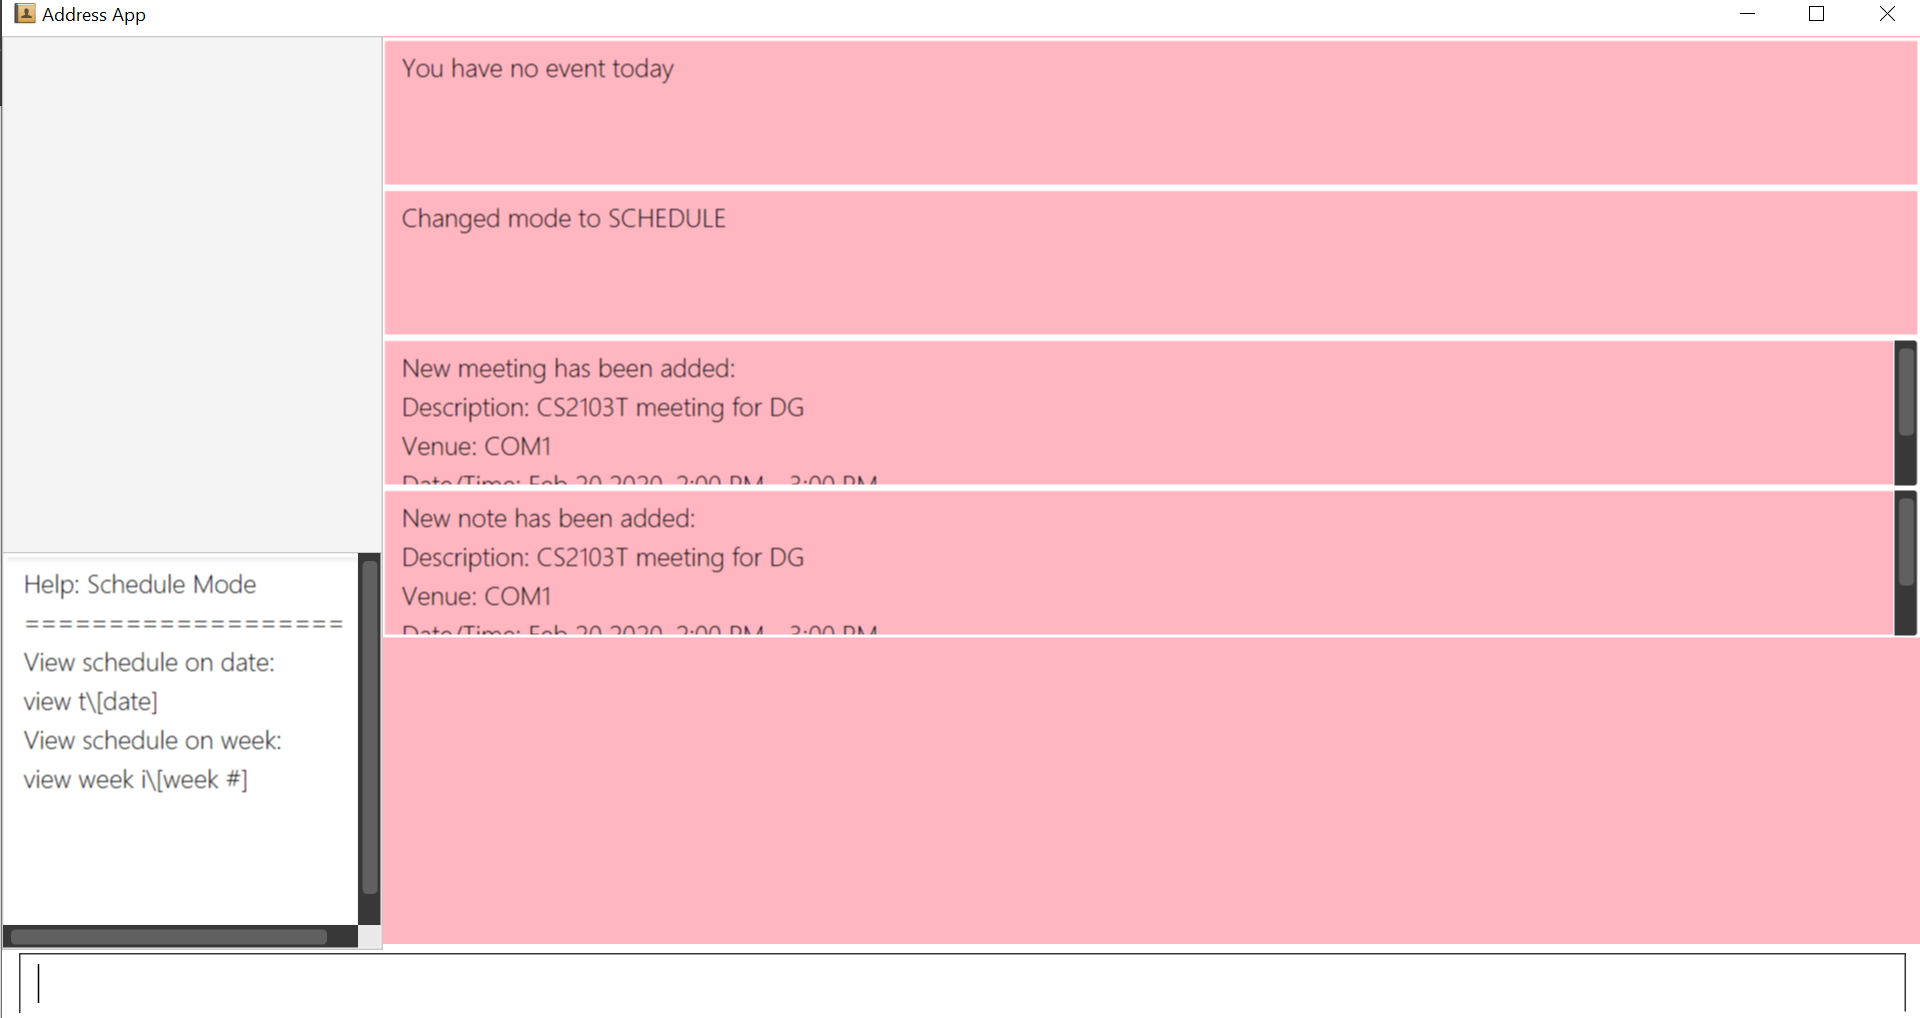
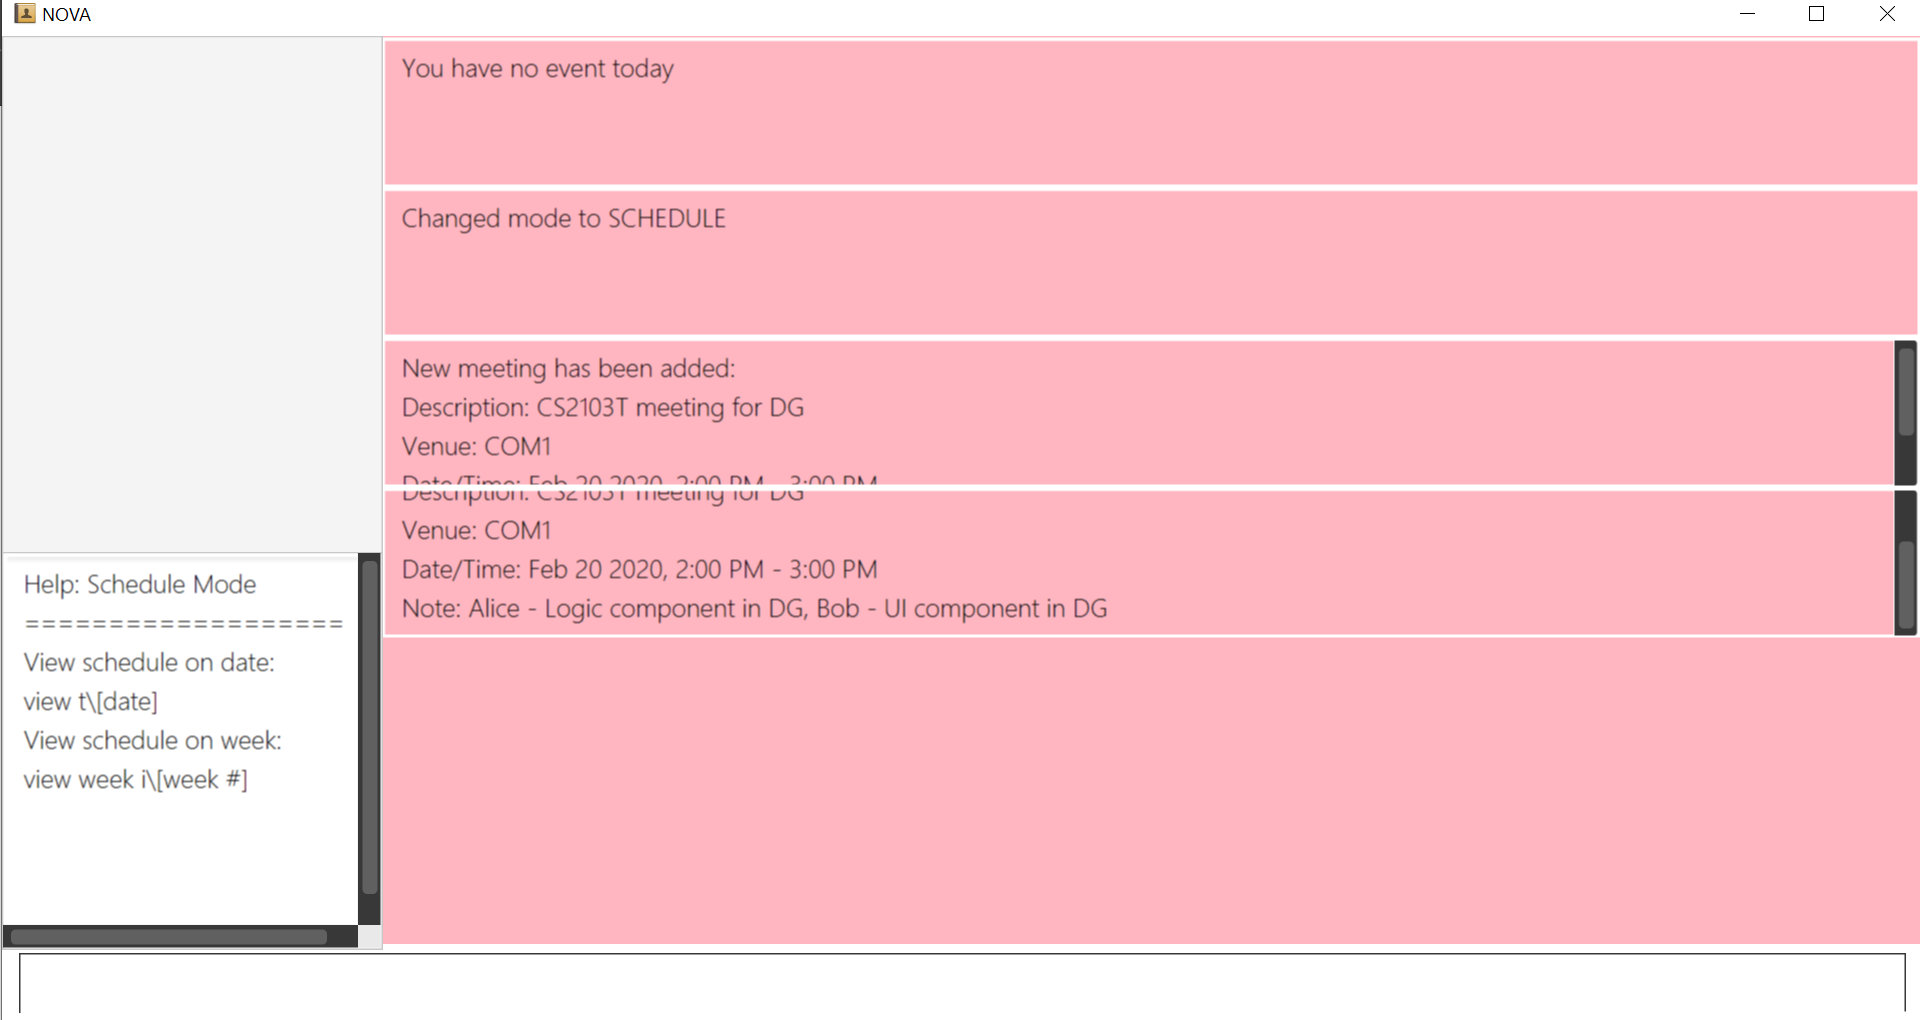
Rebuild pages at ec6de3c78dba63a0d6a7e8003beb362af8b39937

diff --git a/UserGuide.html b/UserGuide.html
@@ -954,7 +954,7 @@ Suppose you wish to add a note that indicates the work allocation to a meeting e
 </div>
 <div class="paragraph">
 <p>NOVA will add a note with the description "Alice - Logic component in DG, Bob - UI component in DG"
-to the second event on 20 Feb 2020.</p>
+to the first event on 20 Feb 2020.</p>
 </div>
 <div class="imageblock" style="text-align: center">
 <div class="content">
@@ -962,7 +962,8 @@ to the second event on 20 Feb 2020.</p>
 </div>
 </div>
 <div class="paragraph text-center">
-<p><em><span class="small">Fig 5.3.6: GUI of NOVA after user typed contact <code>nav ab</code></span></em></p>
+<p><em><span class="small">Fig 5.2: GUI of NOVA after user typed <code>note d\Alice - Logic component in DG,
+                                                 Bob - UI component in DG t\2020-02-20 i\1</code></span></em></p>
 </div>
 <div class="paragraph">
 <p><a href="#Top">[Back to Top]</a></p>
@@ -1803,4 +1804,4 @@ contains the data of your previous NOVA folder.</p>
 <p><a href="#Top">[Back to Top]</a></p>
 </div>
 </div>
-</div></div><div id="footer"><div class="container"><div id="footer-text">Last updated 2020-04-03 03:41:05 UTC</div></div></div></body></html>
+</div></div><div id="footer"><div class="container"><div id="footer-text">Last updated 2020-04-03 05:06:31 UTC</div></div></div></body></html>

diff --git a/tutorials/RemovingFields.html b/tutorials/RemovingFields.html
@@ -175,4 +175,4 @@ While keeping the <code>address</code> field in the json files does not cause th
 <p>You can go through each individual <code>json</code> file and manually remove the <code>address</code> field.</p>
 </div>
 </div>
-</div></div><div id="footer"><div class="container"><div id="footer-text">Last updated 2020-04-03 03:41:06 UTC</div></div></div></body></html>
+</div></div><div id="footer"><div class="container"><div id="footer-text">Last updated 2020-04-03 05:06:31 UTC</div></div></div></body></html>

diff --git a/tutorials/AddRemark.html b/tutorials/AddRemark.html
@@ -616,4 +616,4 @@ In this case, <code>CommandTestUtil#assertCommandSuccess</code> is the best fit 
 <p>This concludes the tutorial for adding a new <code>Command</code> to AddressBook.</p>
 </div>
 </div>
-</div></div><div id="footer"><div class="container"><div id="footer-text">Last updated 2020-04-03 03:41:06 UTC</div></div></div></body></html>
+</div></div><div id="footer"><div class="container"><div id="footer-text">Last updated 2020-04-03 05:06:31 UTC</div></div></div></body></html>

diff --git a/Testing.html b/Testing.html
@@ -90,4 +90,4 @@ e.g. <code>seedu.NOVA.logic.LogicManagerTest</code></p>
 <div class="title">Figure 1. <code>Accessibility</code> permission is granted to <code>IntelliJ IDEA</code></div>
 </div>
 </div>
-</div></div><div id="footer"><div class="container"><div id="footer-text">Last updated 2020-04-03 03:41:05 UTC</div></div></div></body></html>
+</div></div><div id="footer"><div class="container"><div id="footer-text">Last updated 2020-04-03 05:06:31 UTC</div></div></div></body></html>

diff --git a/team/johndoe.html b/team/johndoe.html
@@ -418,4 +418,4 @@ If the <code>currentStatePointer</code> is at index <code>addressBookStateList.s
 <p><em>{Optionally, you may include other projects in your portfolio.}</em></p>
 </div>
 </div>
-</div></div><div id="footer"><div class="container"><div id="footer-text">Last updated 2020-04-03 03:41:06 UTC</div></div></div></body></html>
+</div></div><div id="footer"><div class="container"><div id="footer-text">Last updated 2020-04-03 05:06:31 UTC</div></div></div></body></html>

diff --git a/ContactUs.html b/ContactUs.html
@@ -12,4 +12,4 @@
 <p><strong>Email us</strong> : You can also reach us at <code>e0325944@u.nus.edu</code></p>
 </li>
 </ul>
-</div></div><div id="footer"><div class="container"><div id="footer-text">Last updated 2020-04-03 03:41:05 UTC</div></div></div></body></html>
+</div></div><div id="footer"><div class="container"><div id="footer-text">Last updated 2020-04-03 05:06:31 UTC</div></div></div></body></html>

diff --git a/LearningOutcomes.html b/LearningOutcomes.html
@@ -474,4 +474,4 @@ of storages, but different number of storages (e.g. save to both a text file and
 </div>
 </div>
 </div>
-</div></div><div id="footer"><div class="container"><div id="footer-text">Last updated 2020-04-03 03:41:05 UTC</div></div></div></body></html>
+</div></div><div id="footer"><div class="container"><div id="footer-text">Last updated 2020-04-03 05:06:31 UTC</div></div></div></body></html>

diff --git a/SettingUp.html b/SettingUp.html
@@ -180,4 +180,4 @@ Having both Travis and AppVeyor ensures your App works on both Unix-based platfo
 </div>
 </div>
 </div>
-</div></div><div id="footer"><div class="container"><div id="footer-text">Last updated 2020-04-03 03:41:05 UTC</div></div></div></body></html>
+</div></div><div id="footer"><div class="container"><div id="footer-text">Last updated 2020-04-03 05:06:31 UTC</div></div></div></body></html>

diff --git a/UsingCoveralls.html b/UsingCoveralls.html
@@ -111,4 +111,4 @@ If you have not set up Travis CI, see <a href="UsingTravis.html">UsingTravis.ado
 </ol>
 </div>
 </div>
-</div></div><div id="footer"><div class="container"><div id="footer-text">Last updated 2020-04-03 03:41:05 UTC</div></div></div></body></html>
+</div></div><div id="footer"><div class="container"><div id="footer-text">Last updated 2020-04-03 05:06:31 UTC</div></div></div></body></html>

diff --git a/UsingGradle.html b/UsingGradle.html
@@ -228,4 +228,4 @@ See <code>build.gradle</code> &#8594; <code>allprojects</code> &#8594; <code>dep
 </ul>
 </div>
 </div>
-</div></div><div id="footer"><div class="container"><div id="footer-text">Last updated 2020-04-03 03:41:05 UTC</div></div></div></body></html>
+</div></div><div id="footer"><div class="container"><div id="footer-text">Last updated 2020-04-03 05:06:31 UTC</div></div></div></body></html>

diff --git a/UsingNetlify.html b/UsingNetlify.html
@@ -138,4 +138,4 @@ The publish directory is the directory in which the built HTML documentation res
 </ol>
 </div>
 </div>
-</div></div><div id="footer"><div class="container"><div id="footer-text">Last updated 2020-04-03 03:41:05 UTC</div></div></div></body></html>
+</div></div><div id="footer"><div class="container"><div id="footer-text">Last updated 2020-04-03 05:06:31 UTC</div></div></div></body></html>

diff --git a/Documentation.html b/Documentation.html
@@ -226,4 +226,4 @@ The SE-EDU team does not provide support for modified template files.</p>
 </table>
 </div>
 </div>
-</div></div><div id="footer"><div class="container"><div id="footer-text">Last updated 2020-04-03 03:41:05 UTC</div></div></div></body></html>
+</div></div><div id="footer"><div class="container"><div id="footer-text">Last updated 2020-04-03 05:06:31 UTC</div></div></div></body></html>
